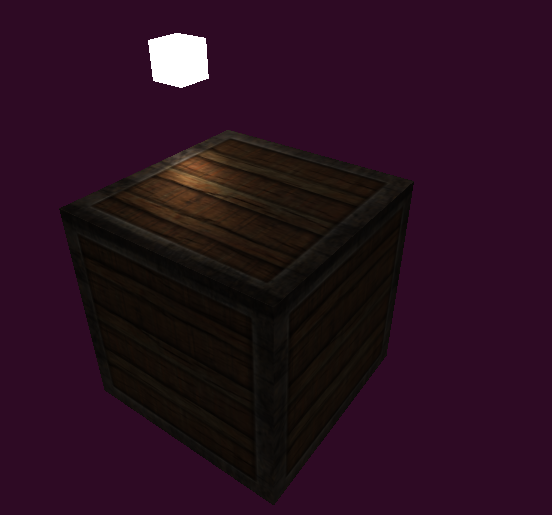
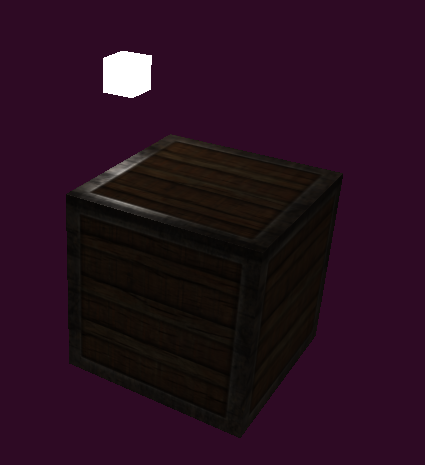
改正使用specular map的效果图

diff --git a/lighting/material and lighting maps.md b/lighting/material and lighting maps.md
@@ -1,0 +1,229 @@
+写在前面
+这一节隔了好久了，今天终于有时间写完。[上一节光照基础](http://blog.csdn.net/wangdingqiaoit/article/details/51638260)学习实现了Phong reflection model，但是还存在不足，本节使用材质属性，以及使用diffuse map和specular map改善上一节的实现。本节示例程序均可以在[我的github](https://github.com/wangdingqiao/noteForOpenGL/tree/master/lighting)下载。
+
+> 本节内容整理自:
+1.[www.learnopengl.com Materials](http://www.learnopengl.com/#!Lighting/Materials)
+2.[www.learnopengl.com Lighting maps](http://www.learnopengl.com/#!Lighting/Lighting-maps)
+
+通过本节可以了解到
+
+- 使用材质属性使不同物体对光有不同反映
+
+- 对光源的不同部分使用不同的强度
+
+- 使用diffuse map和specular map使物体不同部分对光有不同反映
+
+
+## 材质属性-不同物体对光有不同反映
+现实世界中，不同的物体对光有不同的反映，例如钢做成的物体通常比土制的花瓶看起来更亮，木质的容器和钢做成的容器对光的反应也不一样。对于镜面反射光，不同的物体接受光照后，高光部分的半径大小也不一样。要模拟不同的物体接受光照后的效果，就需要考虑物体的材质属性，利用材质属性模拟出不同的效果。
+上一节我们使用了环境光(ambient)，漫反射光(diffuse)，镜面反射光(specular)三种成分实现的Phong reflection mode。为物体指定材质属性时，也可以为物体指定这三个不同成分的光的强度作为材质属性，同时加上高光系数shininess，整个材质在**片元着色器**中定义为如下所示的结构体：
+
+```C++
+// 材质属性结构体
+struct MaterialAttr
+{
+	vec3 ambient;	// 环境光
+	vec3 diffuse;	 // 漫反射光
+	vec3 specular;   // 镜面光
+	float shininess; //镜面高光系数
+};
+```
+利用上述4个属性来定义物体的材质，我们可以模拟出很多现实世界的物体，如何配出具有真实效果的物体光照效果需要丰富的经验，同时也要使用更复杂的模型，后面我们会学习如何加载模型。通过加载丰富的模型，配上光照后，将会更接近现实。
+
+利用上面的材质，我们实现Phone reflection model的**片元着色器**代码变为：
+
+```C++
+void main()
+{    
+	// 环境光成分
+	vec3 ambient = lightColor * material.ambient;
+	 
+	// 漫反射光成分
+	vec3 norm = normalize(Normal);
+	vec3 lightDir = normalize(lightPos - FragPos);
+	float diff = max(dot(norm, lightDir), 0.0);
+	vec3 diffuse = lightColor * (diff * material.diffuse);
+	    
+	 // 镜面光成分
+	 vec3 viewDir = normalize(viewPos - FragPos);
+	 vec3 reflectDir = reflect(-lightDir, norm);  
+	 float spec = pow(max(dot(viewDir, 
+		reflectDir), 0.0), material.shininess);
+	 vec3 specular = lightColor * (spec * material.specular);  
+	 vec3 result = ambient + diffuse + specular;
+	 color = vec4(result, 1.0f);
+}
+```
+在主程序中设置材质结构体的每个属性，使用结构体变量的分量来设置。例如定义材质结构体变量为：
+```C++
+uniform MaterialAttr material;
+```
+则使用分量来设置属性各个部分的实现为：
+```C++
+	   // 设置材料光照属性
+		GLint objectAmbientLoc = glGetUniformLocation(shader.programId, "material.ambient");
+		GLint objectDiffuseLoc = glGetUniformLocation(shader.programId, "material.diffuse");
+		GLint objectSpecularLoc = glGetUniformLocation(shader.programId, "material.specular");
+		GLint objectShininessLoc = glGetUniformLocation(shader.programId, "material.shininess");
+		glUniform3f(objectAmbientLoc, 1.0f, 0.5f, 0.31f);
+		glUniform3f(objectDiffuseLoc, 1.0f, 0.5f, 0.31f);
+		glUniform3f(objectSpecularLoc, 0.5f, 0.5f, 0.5f);
+		glUniform1f(objectShininessLoc, 32.0f);
+```
+将lightColor设置为(1.0,1.0,1.0)，则执行程序，我们得到的效果如下：
+
+![没有考虑光各个成分强度](http://img.blog.csdn.net/20160703230437261)
+
+可以看到上面图中的物体太亮了，主要原因是这里没有像上一节一样使用ambientStrength,specularStrength等参数调节光源不同成分的强度，导致各个成分叠加到一起后，强度太大，因此十分明亮。要为光源不同成分指定不同的强度，这个类似于为物体指定材质的做法，我们定义光源结构体为：
+
+```c++
+// 光源属性结构体
+struct LightAttr
+{
+	vec3 position;
+	vec3 ambient;
+	vec3 diffuse;
+	vec3 specular;
+};
+```
+
+在程序中设置光源属性，同理可以通过结构体变量的分量来设置，如下：
+```C++
+  GLint lightAmbientLoc = glGetUniformLocation(shader.programId, "light.ambient");
+		GLint lightDiffuseLoc = glGetUniformLocation(shader.programId, "light.diffuse");
+		GLint lightSpecularLoc = glGetUniformLocation(shader.programId, "light.specular");
+		GLint lightPosLoc = glGetUniformLocation(shader.programId, "light.position");
+		glUniform3f(lightAmbientLoc, 0.2f, 0.2f, 0.2f);
+		glUniform3f(lightDiffuseLoc, 0.5f, 0.5f, 0.5f);
+		glUniform3f(lightSpecularLoc, 1.0f, 1.0f, 1.0f);
+		glUniform3f(lightPosLoc, lampPos.x, lampPos.y, lampPos.z);
+```
+其中lampPos是事先指定的光源位置，例如定义为：
+```C++
+   glm::vec3 lampPos(0.8f, 0.8f, 0.5f);
+```
+更改后的效果为：
+![使用材质后的光照](http://img.blog.csdn.net/20160703231018325)
+
+这个效果同上一节的没有什么大的区别，但是我们为光源的部分成分指定了不同的强度，这代替了上一节在着色器中指定的ambientStrength,specularStrength等参数；同时为物体使用了材质属性，更加灵活地控制物体接受光照时的效果。
+
+如果控制光源的属性随着时间改变，我们可以得到好玩的效果如下图所示：
+![变化的光源属性](http://img.blog.csdn.net/20160703234842784)
+
+变换光源可以使用glfwGetTime函数来实现如下：
+
+```C++
+// 随时间变化的光源属性
+glm::vec3 lightColor;
+lightColor.x = sin(glfwGetTime() * 2.0f);
+lightColor.y = sin(glfwGetTime() * 0.7f);
+lightColor.z = sin(glfwGetTime() * 1.3f);
+glm::vec3 diffuseColor = lightColor   * glm::vec3(0.5f); // 适当减小影响
+glm::vec3 ambientColor = diffuseColor * glm::vec3(0.2f);
+glUniform3f(lightAmbientLoc, ambientColor.x, ambientColor.y, ambientColor.z);
+glUniform3f(lightDiffuseLoc, diffuseColor.x, diffuseColor.y, diffuseColor.z);
+glUniform3f(lightSpecularLoc, 1.0f, 1.0f, 1.0f);
+```
+
+## light maps-物体的不同部分对光有不同反映
+
+上面提到了不同的物体对光有不同的反映，实际上同一物体的部分往往不是同一种材料构成的，例如汽车的车身喷漆了往往很光亮，而轮胎的橡胶部分则比较暗淡。为了更好的模拟现实中物体接受光照效果，我们应该为物体的不同部分指定不同的材质属性，而不是整个物体共用一个材质属性。
+
+不同的部分对应不同的材质属性，这个有点类似于根据纹理坐标获取不同的纹素，我们这里的做法同纹理坐标类似，不过这里的做法取名为light maps。也就是为物体的不同部分指定不同的坐标，根据这个坐标获取从light map获取不同的材质属性，对应漫反射有diffuse map，镜面反射有specular map。当然还包括其他类型的light map，这里只学习diffuse map和specular map。
+
+### 使用diffuse map
+要使用diffuse map，同纹理坐标一样，我们需要在顶点属性中添加纹理坐标，定义顶点属性如下：
+```C++
+   // 指定顶点属性数据 顶点位置 纹理 法向量
+	GLfloat vertices[] = {
+		-0.5f, -0.5f, 0.5f, 0.0f, 0.0f, 0.0f, 0.0f,1.0f,	// A
+		0.5f, -0.5f, 0.5f, 1.0f, 0.0f,  0.0f, 0.0f, 1.0f,	// B
+		0.5f, 0.5f, 0.5f,  1.0f, 1.0f,   0.0f, 0.0f, 1.0f,	// C
+		0.5f, 0.5f, 0.5f,  1.0f, 1.0f,   0.0f, 0.0f, 1.0f,	// C
+		-0.5f, 0.5f, 0.5f,  0.0f, 1.0f,  0.0f, 0.0f, 1.0f,	// D
+		-0.5f, -0.5f, 0.5f, 0.0f, 0.0f, 0.0f, 0.0f, 1.0f,	// A
+		...省略
+	};
+```
+
+同时要加载纹理作为diffuse map，如下：
+```C++
+   GLint diffuseMap = TextureHelper::load2DTexture("../../resources/textures/container_diffuse.png");
+	shader.use();
+	glUniform1i(glGetUniformLocation(shader.programId, "material.diffuseMap"), 0);
+```
+这里使用了封装的加载和建立纹理对象的方法 TextureHelper::load2DTexture，关于如何使用纹理，在前面[二维纹理映射](http://blog.csdn.net/wangdingqiaoit/article/details/51457675)一节已经介绍过了，如果不清楚，可以回过头去查看。
+
+在着色器中，重新定义材质属性为：
+```
+   // 材质属性结构体
+struct MaterialAttr
+{
+	sampler2D diffuseMap;// 根据位置取不同的材质属性
+	sampler2D specularMap;
+	float shininess; //镜面高光系数
+};
+```
+物体材质部分，环境光一般和漫反射光相同，只是强度不同，因此计算环境光和漫反射光都使用diffuse map，计算如下：
+```
+   // 环境光成分
+	vec3	ambient = light.ambient * vec3(texture(material.diffuseMap, TextCoord));
+
+	// 漫反射光成分 此时需要光线方向为指向光源
+	vec3	lightDir = normalize(light.position - FragPos);
+	vec3	normal = normalize(FragNormal);
+	float	diffFactor = max(dot(lightDir, normal), 0.0);
+	vec3	diffuse = diffFactor * light.diffuse * vec3(texture(material.diffuseMap, TextCoord));
+```
+在上面的代码中，我们通过在材质属性中定义纹理对象sampler2D，然后使用纹理对象material.diffuseMap来计算环境光和漫反射光成分。如果对镜面反射光不使用specular map，我们得到的效果如下：
+
+![只使用diffuse map](http://img.blog.csdn.net/20160703232940099)
+
+上面的图中，使用的diffuse map是一个木制的容器，在图中我们看到高光部分很明显，但是对于木制容器，对于镜面光的反映应该不会这么大，因此我们通过specular map需要调整图中镜面光部分。
+
+## 使用specular map
+假若我们想要一个由钢做成的边架的木制容器，当接收镜面光时，肯定是钢架子很亮，而木制部分的镜面光比较弱，要达到这样一种效果，我们可以为钢架子部分指定较强的强度，而木制部分强度较弱。如果通过手动来设置肯定很麻烦了，同diffuse map一样，我们也是用类似的技术处理，这就是specular map。
+
+一般而言镜面光的light map中，表示强度大可以用接近白色的颜色表示，强度弱则使用接近黑色的颜色表示。最终我们的specular map用下图来表示(来自[www.learnopengl.com light maps](http://www.learnopengl.com/img/textures/container2_specular.png))：
+
+![specular map](http://img.blog.csdn.net/20160703233629767)
+
+在主程序中加载diffuse map和specular map，如下:
+
+```C++
+   // Section3 准备diffuseMap和specularMap
+	GLint diffuseMap = TextureHelper::load2DTexture("../../resources/textures/container_diffuse.png");
+	GLint specularMap = TextureHelper::load2DTexture("../../resources/textures/container_specular.png");
+	shader.use();
+	glUniform1i(glGetUniformLocation(shader.programId, "material.diffuseMap"), 0);
+	glUniform1i(glGetUniformLocation(shader.programId, "material.specularMap"), 1);
+```
+在着色器中使用diffuse map和specular map完成光照计算过程为：
+```C++
+   void main()
+{   
+	// 环境光成分
+	vec3	ambient = light.ambient * vec3(texture(material.diffuseMap, TextCoord));
+	// 漫反射光成分 此时需要光线方向为指向光源
+	vec3	lightDir = normalize(light.position - FragPos);
+	vec3	normal = normalize(FragNormal);
+	float	diffFactor = max(dot(lightDir, normal), 0.0);
+	vec3	diffuse = diffFactor * light.diffuse * vec3(texture(material.diffuseMap, TextCoord));
+	// 镜面反射成分 此时需要光线方向为由光源指出
+	float	specularStrength = 0.5f;
+	vec3	reflectDir = normalize(reflect(-lightDir, normal));
+	vec3	viewDir = normalize(viewPos - FragPos);
+	float	specFactor = pow(max(dot(reflectDir, viewDir), 0.0), material.shininess);
+	vec3	specular = specFactor * light.specular * vec3(texture(material.specularMap, TextCoord));
+	vec3	result = ambient + diffuse + specular;
+	color	= vec4(result , 1.0f);
+}
+```
+
+最终的效果如下：
+![specular map](http://img.blog.csdn.net/20160703234222152)
+当移动物体时，只有钢架子部分对镜面光反应比较明显，而木制部分则仍然很暗淡。
+
+# 最后的说明
+
+本节通过使用材质属性，模拟不同物体对光有不同反映；使用diffuse map和specular map，模拟物体的不同部分对光有不同反映；同时为光源的三个光成分指定了不同的强度，避免了三个光成分和物体叠加计算后，光照太亮的不真实效果。下一节将会介绍不同的光源，以及使用多个光源的方法。
